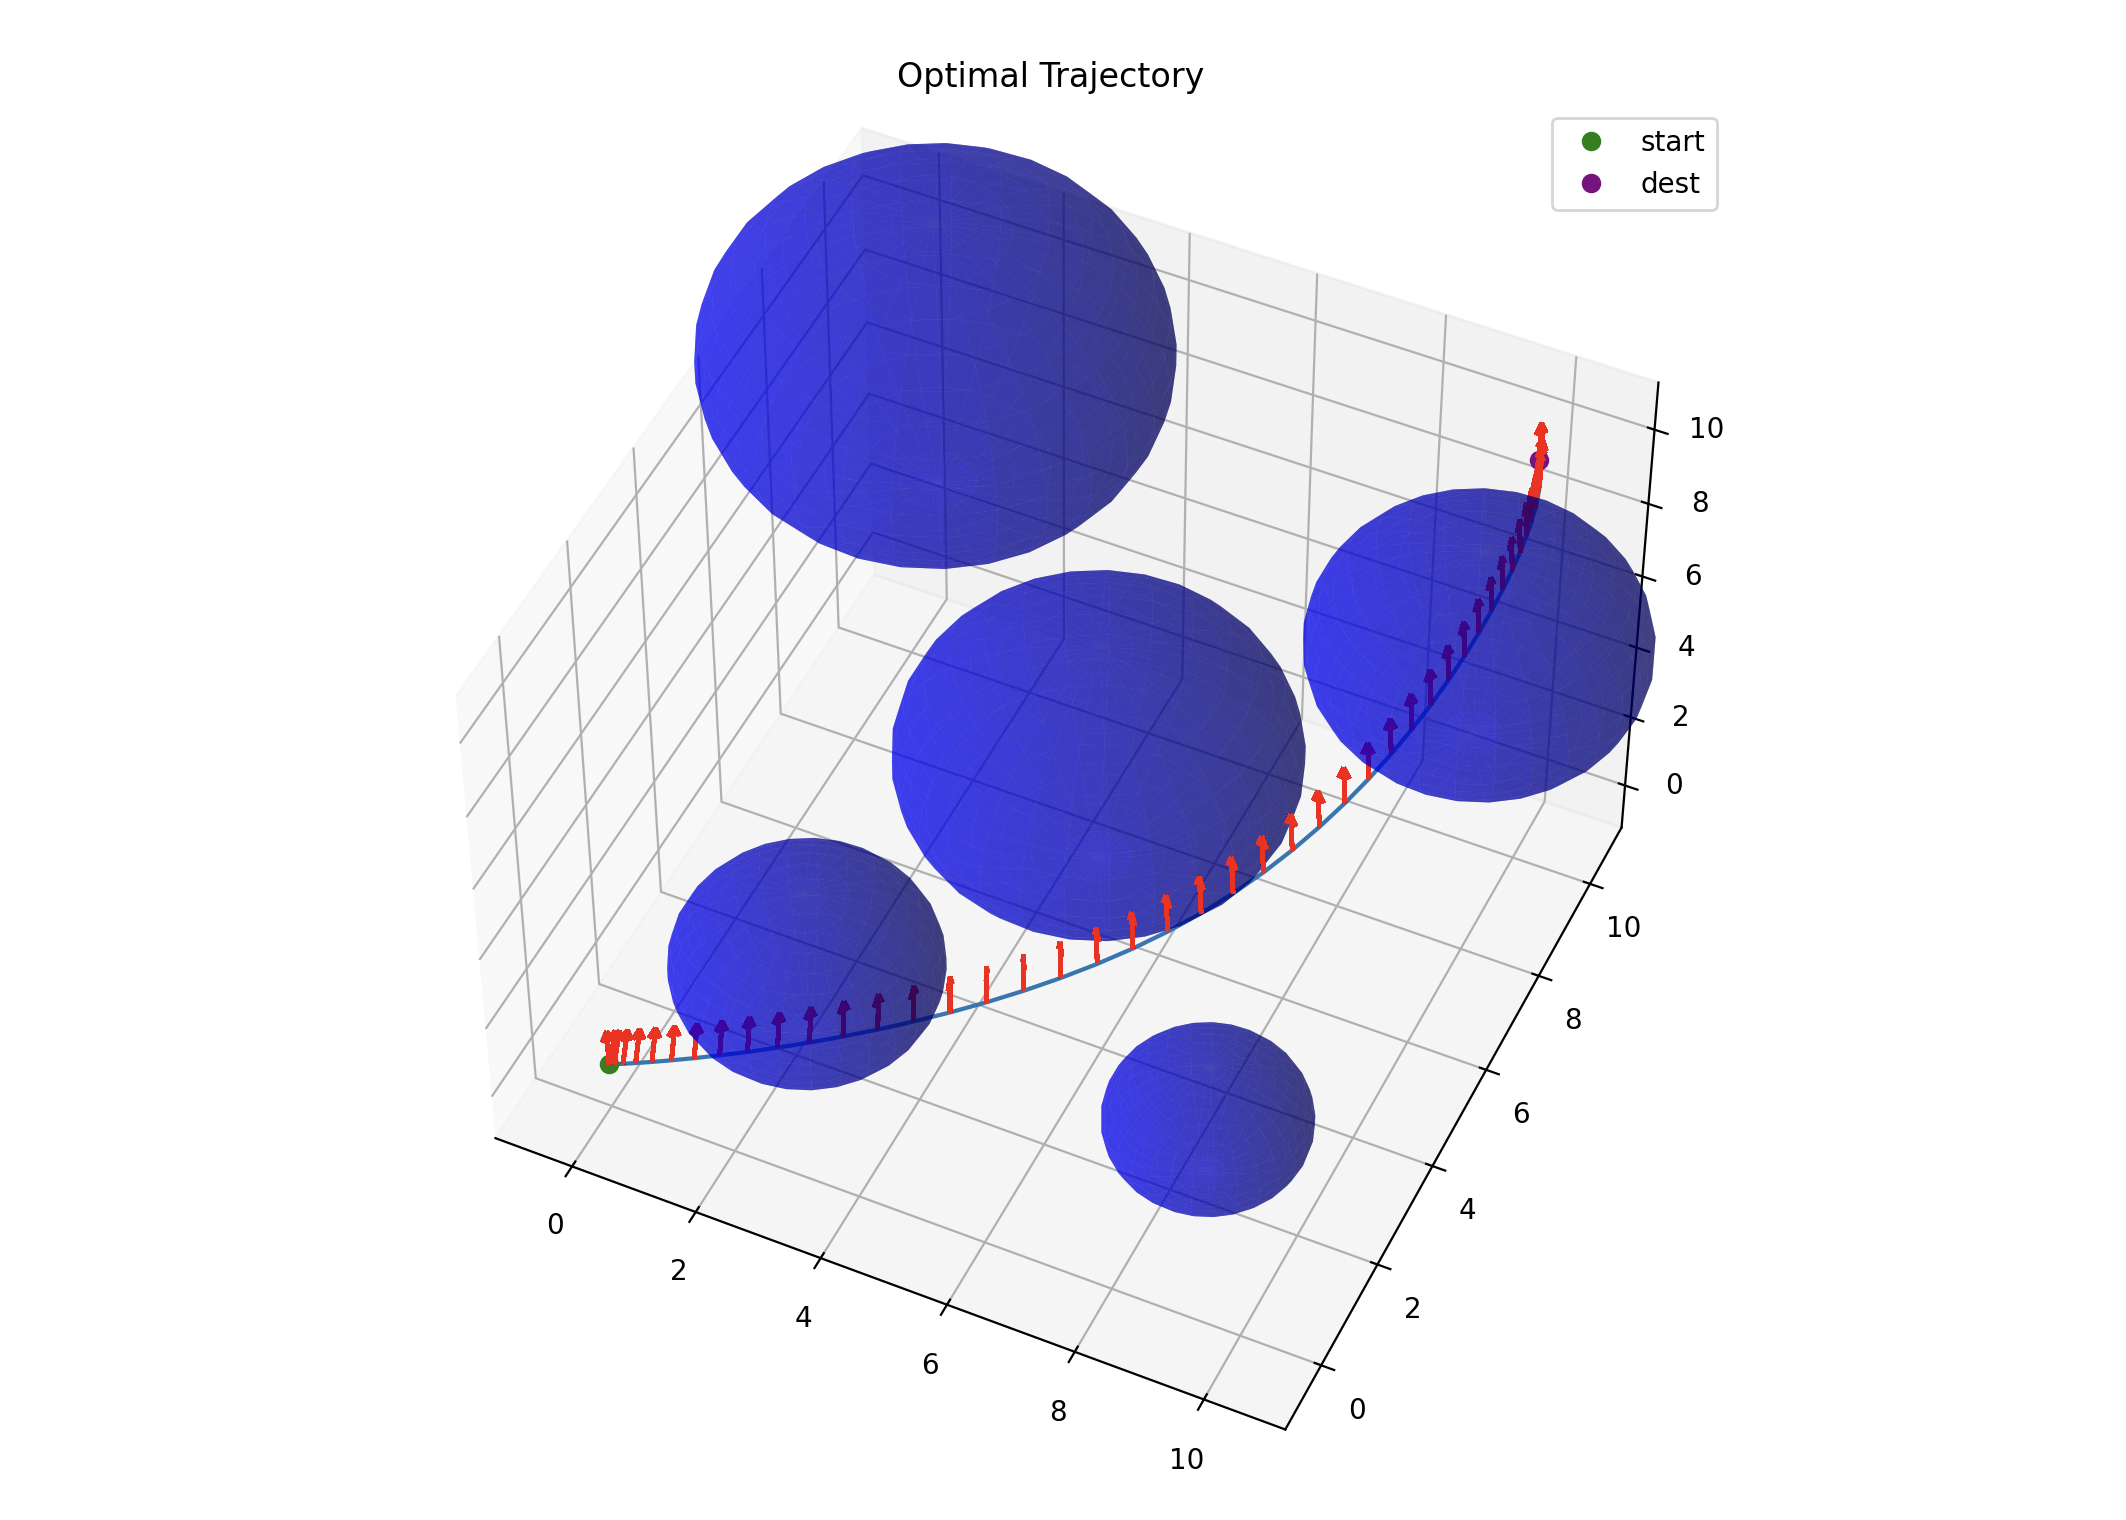
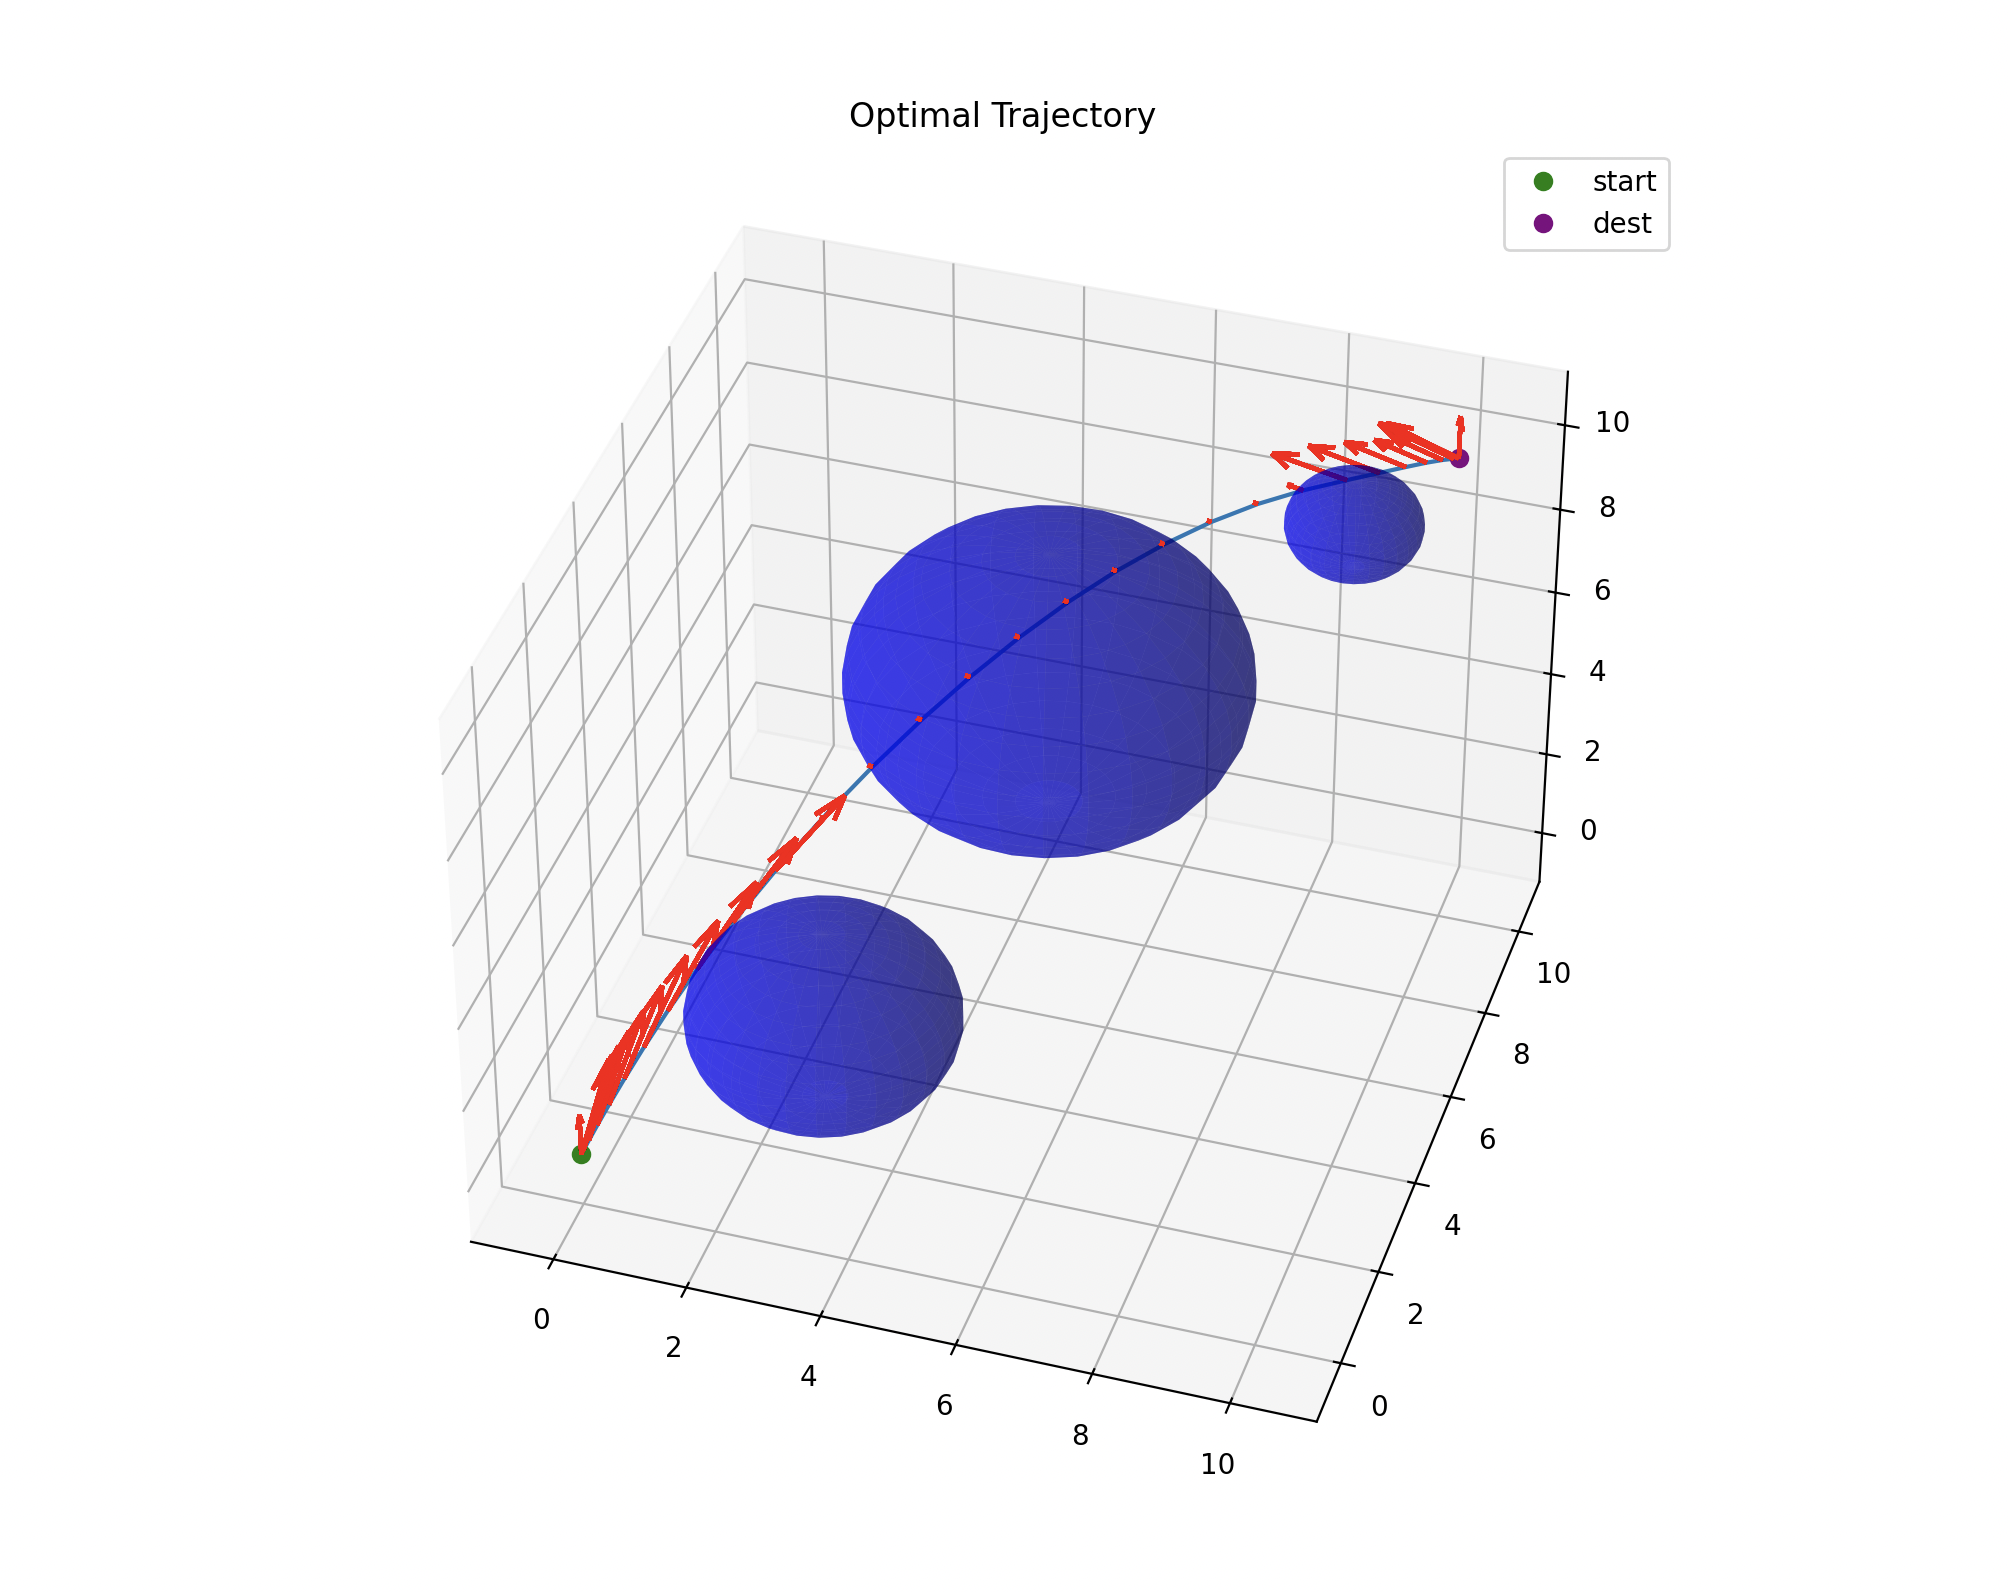
new demo

diff --git a/script/fft.py b/script/fft.py
@@ -15,7 +15,7 @@ X_I = [0.0, 0.0, 0.0, 0.0, 0.0, 0.0]
 X_F = [10.0, 10.0, 10.0, 0.0, 0.0, 0.0]
 U_I = [0.0, 0.0, 9.81]
 U_F = [0.0, 0.0, 9.81]
-N = 20
+N = 30
 T_MIN = 1.0
 T_MAX = 4.0
 U_MIN = 1.0

diff --git a/script/ed.py b/script/ed.py
@@ -13,7 +13,7 @@ X_I = [0.0, 0.0, 0.0, 0.0, 0.0, 0.0]
 X_F = [10.0, 10.0, 10.0, 0.0, 0.0, 0.0]
 U_I = [0.0, 0.0, 9.81]
 U_F = [0.0, 0.0, 9.81]
-N = 20
+N = 30
 T_F = 4.0
 U_MIN = 1.0
 U_MAX = 20.0

diff --git a/script/scp.py b/script/scp.py
@@ -13,7 +13,7 @@ V_I = [0.0, 0.0, 0.0]
 V_F = [0.0, 0.0, 0.0]
 A_I = [0.0, 0.0, 0.0]
 A_F = [0.0, 0.0, 0.0]
-N = 20
+N = 30
 T_F = 4.0
 U_MIN = 1.0
 U_MAX = 20.0
